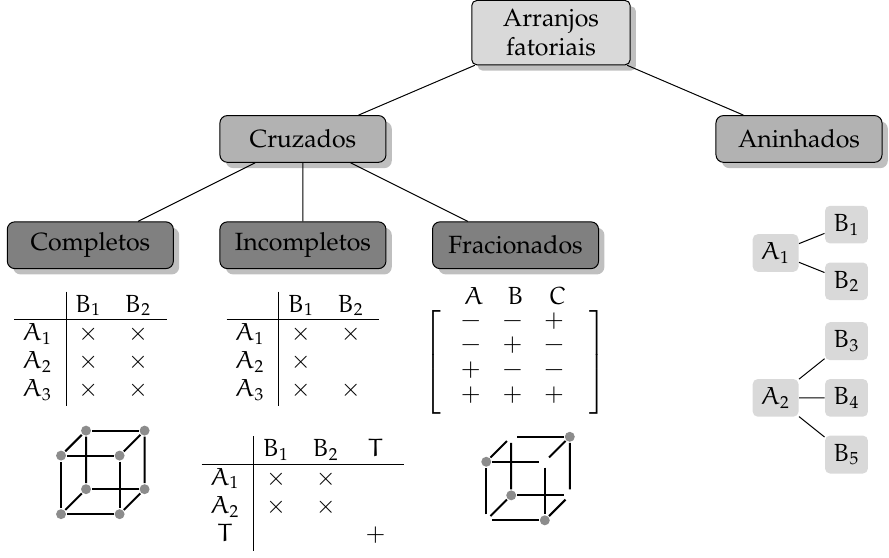
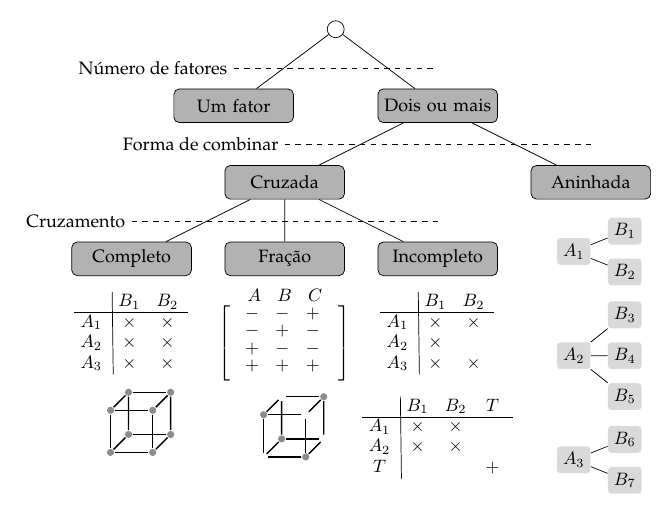
Improves the factorial picture.

diff --git a/README.md b/README.md
@@ -3942,13 +3942,14 @@ in on <http://www.leg.ufpr.br/~walmes/tikz/> (updated less frequently).
   * [factorials.pgf](https://github.com/walmes/Tikz/blob/master/src/factorials.pgf)
 
 ```tex
-\tikzset{
-  basic/.style={draw, text width=2cm, drop shadow, rectangle, minimum
+\tikzset{%
+  basic/.style={draw, text width=2cm, %drop shadow, 
+    rectangle, minimum
     height=4ex},
   root/.style={basic, rounded corners=2pt, align=center, fill=gray!30},
   level 2/.style={basic, rounded corners=3pt, align=center,
     fill=gray!60, text width=6em},
-  level 3/.style={basic, align=center, fill=gray, text width=6em},
+  level 3/.style={basic, align=center, fill=gray, text width=16em},
   table/.style={
     matrix of nodes,
     % matrix of math nodes,
@@ -3961,26 +3962,37 @@ in on <http://www.leg.ufpr.br/~walmes/tikz/> (updated less frequently).
   },
   vertex/.style={circle, minimum size=4pt, inner sep=1pt, fill=gray!90},
   edge/.style={draw, -, black}
-}
+}%
 
-\begin{tikzpicture}[
-  level 1/.append style={sibling distance=70mm},
-  level 2/.append style={sibling distance=30mm},
+\begin{tikzpicture}[%
+  level 1/.append style={sibling distance=40mm},
+  level 2/.append style={sibling distance=60mm},
+  level 3/.append style={sibling distance=30mm},
   edge from parent/.style={-, draw},
   >=stealth]
 
-  \node[root] {Arranjos fatoriais}
+  \node[draw, circle] (ini) {}
   child {
-    node[level 2] (cru) {Cruzados}
-    child {node[level 3] (com) {Completos}}
-    child {node[level 3] (inc) {Incompletos}}
-    child {node[level 3] (fra) {Fracionados}}
+    node[level 2] (um) {Um fator}
   }
   child {
-    node[level 2] (ani) {Aninhados}
+    node[level 2] (dois) {Dois ou mais}
+    child {
+      node[level 2] (cru) {Cruzada}
+      child {node[level 2] (com) {Completo}}
+      child {node[level 2] (fra) {Fra{\c c}{\~a}o}}
+      child {node[level 2] (inc) {Incompleto}}
+    }
+    child {
+      node[level 2] (ani) {Aninhada}
+    }
   };
-  
-  \begin{scope}
+
+  \draw[dashed] ($(um.90)+(0,0.4)$)  node[left] {N\'umero de fatores} -- ($(dois.90)+(0,0.4)$);
+  \draw[dashed] ($(cru.90)+(0,0.4)$) node[left] {Forma de combinar} -- ($(ani.90)+(0,0.4)$);
+  \draw[dashed] ($(com.90)+(0,0.4)$) node[left] {Cruzamento} -- ($(inc.90)+(0,0.4)$);
+
+ \begin{scope}
     \matrix[table, below=2mm of com] (tbcom) {
             & $B_1$    & $B_2$    \\
       $A_1$ & $\times$ & $\times$ \\ 
@@ -4061,7 +4073,7 @@ in on <http://www.leg.ufpr.br/~walmes/tikz/> (updated less frequently).
     cx/.style={rounded corners=2pt, thin, align=center, fill=gray!30},
     level 1/.append style={sibling distance=8mm, level distance=10mm},
     edge from parent/.style={-, draw}]
-    \coordinate[below=of ani] (anip);
+    \coordinate[below=.75cm of ani] (anip);
     \node[cx, below left=0mm and 0mm of anip] (A1) {$A_1$}
     child {node[cx] {$B_2$}}
     child {node[cx] {$B_1$}};
@@ -4069,9 +4081,13 @@ in on <http://www.leg.ufpr.br/~walmes/tikz/> (updated less frequently).
     child {node[cx] {$B_5$}}
     child {node[cx] {$B_4$}}
     child {node[cx] {$B_3$}};
+    \node[cx, below=15mm of A2] (A3) {$A_3$}
+    child {node[cx] {$B_7$}}
+    child {node[cx] {$B_6$}};
+
   \end{scope}
 
-\end{tikzpicture}
+\end{tikzpicture}%
 ```
 ****
 
@@ -5470,19 +5486,19 @@ in on <http://www.leg.ufpr.br/~walmes/tikz/> (updated less frequently).
 
 ```tex
 % Para fazer o quadrado.
-\newcommand{\thesquare}[3]{
+\newcommand{\thesquare}[3]{%
   \def\dmin{0.04}
   \def\dmax{0.96}
   \draw[xshift = #1, yshift = #2, fill = #3]
     (\dmin, \dmin) -- (\dmax, \dmin) --
     (\dmax, \dmax) -- (\dmin, \dmax) -- (\dmin, \dmin);
-}
-
+}%
+%
 % Definicao das cores.
-\definecolor{v3}{HTML}{0071FD}
-\definecolor{v2}{HTML}{7FB7FF}
-\definecolor{v1}{HTML}{FFFFFF}
-
+\definecolor{v3}{HTML}{0071FD}%
+\definecolor{v2}{HTML}{7FB7FF}%
+\definecolor{v1}{HTML}{FFFFFF}%
+%
 \begin{tikzpicture}
   \def\dist{0cm}
   \thesquare{\dist}{2cm}{v3}
@@ -5502,7 +5518,7 @@ in on <http://www.leg.ufpr.br/~walmes/tikz/> (updated less frequently).
   \node[color = black] at (0.5, 4.5) {\Huge \textbf I};
   \node[color = black] at (1.5, 3.5) {\Huge \textbf B};
   \node[color = black] at (2.5, 2.5) {\Huge \textbf S};
-\end{tikzpicture}
+\end{tikzpicture}%
 ```
 ****
 
@@ -5750,12 +5766,12 @@ in on <http://www.leg.ufpr.br/~walmes/tikz/> (updated less frequently).
   * [leg.pgf](https://github.com/walmes/Tikz/blob/master/src/leg.pgf)
 
 ```tex
-\def\outercircle{(0,0) circle (5cm)}
-\def\innercircle{(-0.4,0.4) circle (4.2cm)}
-\def\leg{
+\def\outercircle{(0,0) circle (5cm)}%
+\def\innercircle{(-0.4,0.4) circle (4.2cm)}%
+\def\leg{%
   \node[font=\fontsize{165}{144}\selectfont, color=white]
-  at (0,0) (leg) {leg}}
-\def\orangecircle{(1.9,0.5) circle (0.8cm)}
+  at (0,0) (leg) {leg}}%
+\def\orangecircle{(1.9,0.5) circle (0.8cm)}%
 
 \begin{tikzpicture}
   \draw[color=white!50!black, fill=white, line width=5pt]
@@ -5763,7 +5779,7 @@ in on <http://www.leg.ufpr.br/~walmes/tikz/> (updated less frequently).
   \draw[draw=none, fill=white!50!black] \innercircle;
   \draw[draw=none, fill=orange] \orangecircle;
   \leg;
-\end{tikzpicture}
+\end{tikzpicture}%
 ```
 ****
 
@@ -9696,20 +9712,20 @@ level   dof     error1  error2  info    grad(log(dof),log(error2))      quot(err
 
 ```tex
 % Para fazer o quadrado.
-\newcommand{\thesquare}[3]{
+\newcommand{\thesquare}[3]{%
   \def\dmin{0.04}
   \def\dmax{0.96}
   \draw[xshift = #1, yshift = #2, fill = #3]
     (\dmin, \dmin) -- (\dmax, \dmin) --
     (\dmax, \dmax) -- (\dmin, \dmax) -- (\dmin, \dmin);
-}
+}%
 
 % Definicao das cores.
-\definecolor{v3}{HTML}{006600}
-\definecolor{v2}{HTML}{009900}
-\definecolor{v1}{HTML}{66FF33}
-\definecolor{am}{HTML}{FFFF00}
-\definecolor{az}{HTML}{0000FF}
+\definecolor{v3}{HTML}{006600}%
+\definecolor{v2}{HTML}{009900}%
+\definecolor{v1}{HTML}{66FF33}%
+\definecolor{am}{HTML}{FFFF00}%
+\definecolor{az}{HTML}{0000FF}%
 
 \begin{tikzpicture}
   \def\dist{0cm}
@@ -9752,7 +9768,7 @@ level   dof     error1  error2  info    grad(log(dof),log(error2))      quot(err
   \node[color = white] at (2.5, 2.5) {\Huge r};
   \node[color = white] at (3.5, 1.5) {\Huge a};
   \node[color = white] at (4.5, 0.5) {\Huge s};
-\end{tikzpicture}
+\end{tikzpicture}%
 ```
 ****
 
